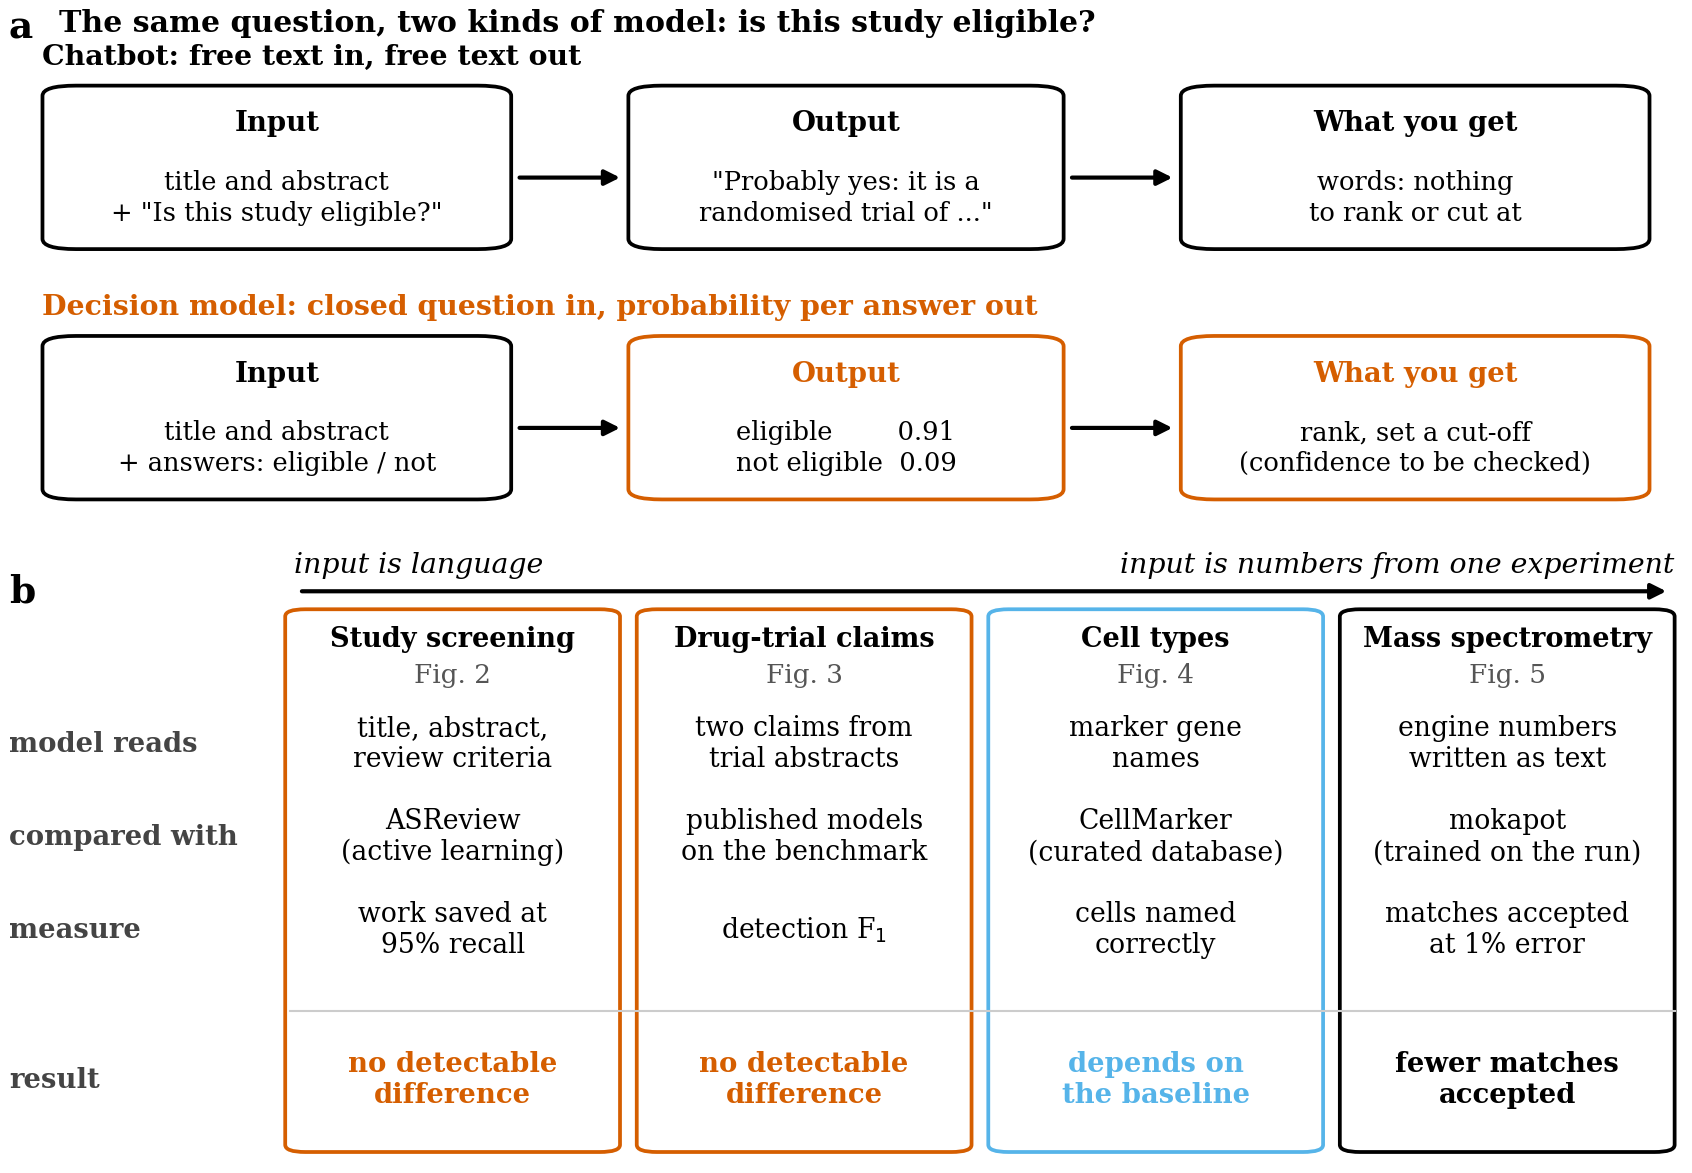
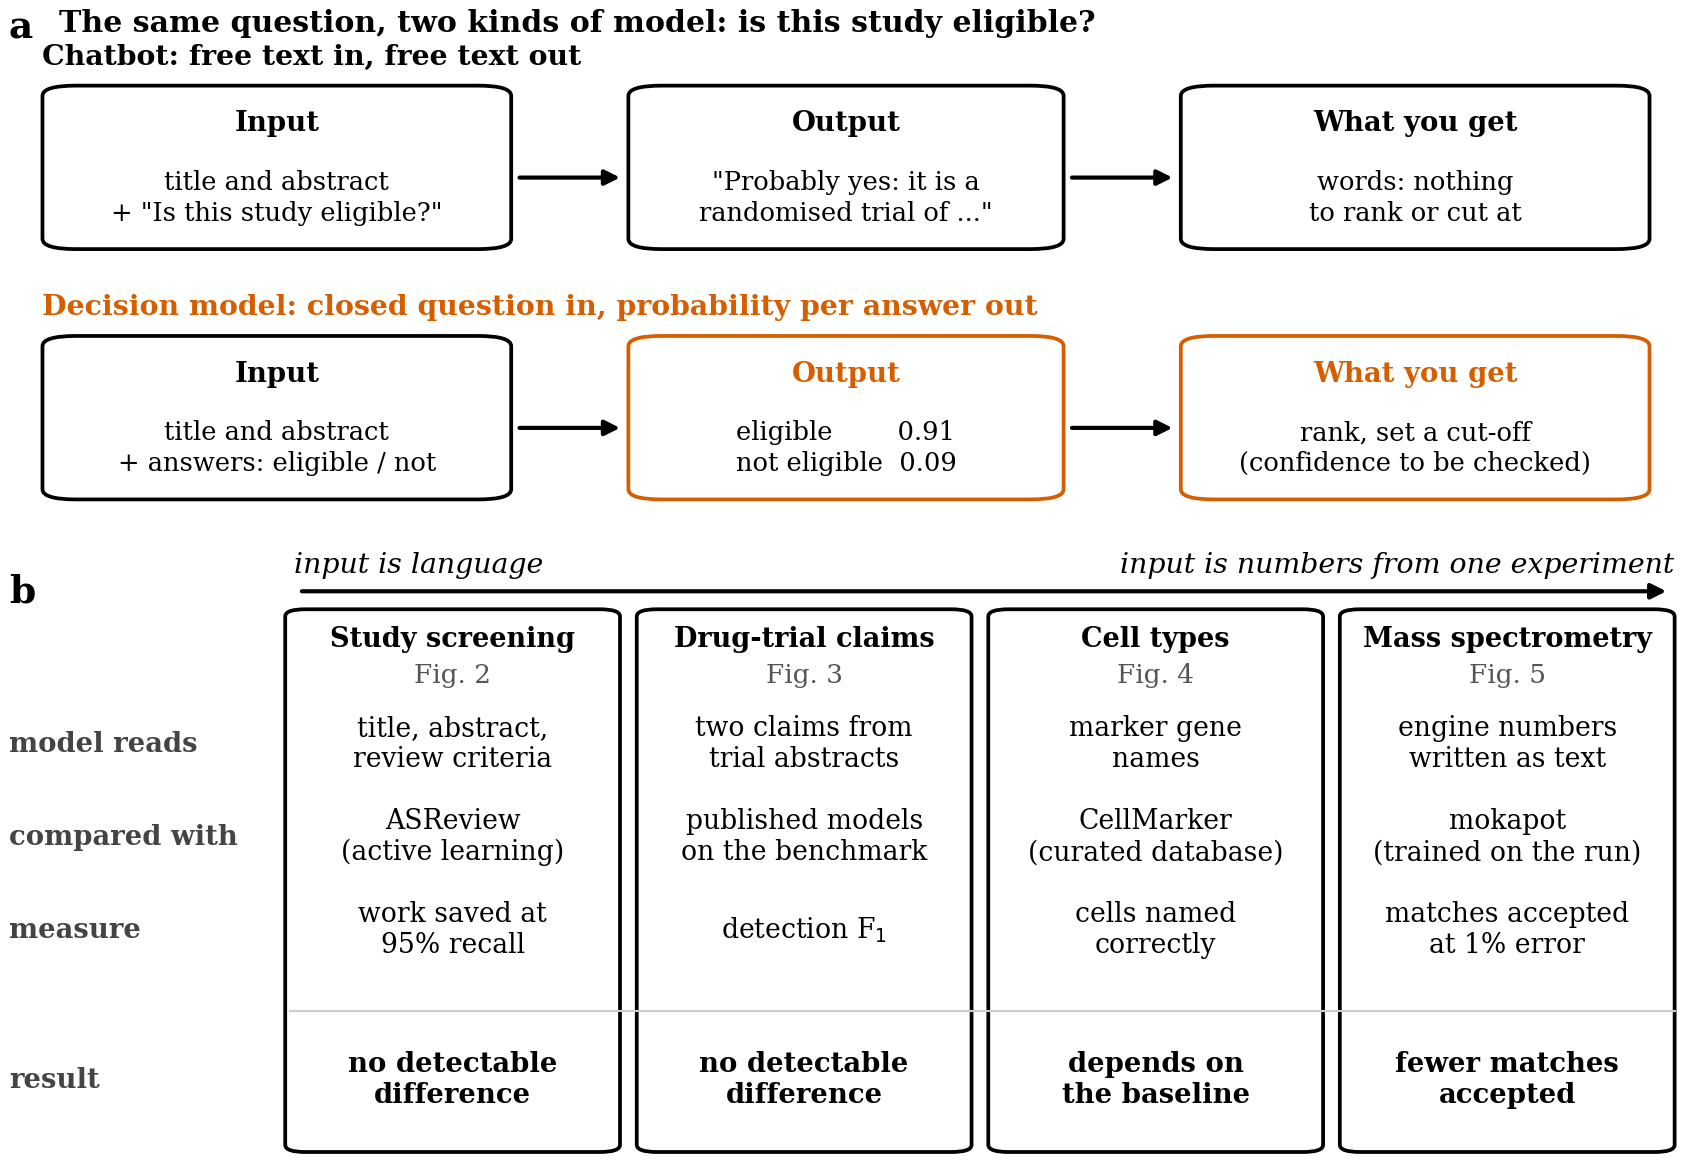
Fig 1: panel b in neutral colour

diff --git a/scripts/fig1_gradient.py b/scripts/fig1_gradient.py
@@ -1,18 +1,18 @@
 """Fig 1, Introduction: the benchmark map, four tasks on one text-to-numbers axis. No inputs (values restate the source studies; sizes asserted in fig2-fig5).
 Out: figs/fig1_gradient.{pdf,png}. Run from merge_jev/paper/: python3 scripts/fig1_gradient.py"""
 from matplotlib.patches import FancyBboxPatch
-from style import save, plt, JEV, POSTHOC, REF, WIDTH
+from style import save, plt, JEV, REF, WIDTH
 
 # rows of each card; values restate the source studies (sizes asserted in the per-case scripts)
 ROWS = ["model reads", "compared with", "measure"]
 CASES = [
-    ("Study screening", "Fig. 2", JEV, "no detectable\ndifference",
+    ("Study screening", "Fig. 2", "no detectable\ndifference",
      ["title, abstract,\nreview criteria", "ASReview\n(active learning)", "work saved at\n95% recall"]),
-    ("Drug-trial claims", "Fig. 3", JEV, "no detectable\ndifference",
+    ("Drug-trial claims", "Fig. 3", "no detectable\ndifference",
      ["two claims from\ntrial abstracts", "published models\non the benchmark", "detection F$_1$"]),
-    ("Cell types", "Fig. 4", POSTHOC, "depends on\nthe baseline",
+    ("Cell types", "Fig. 4", "depends on\nthe baseline",
      ["marker gene\nnames", "CellMarker\n(curated database)", "cells named\ncorrectly"]),
-    ("Mass spectrometry", "Fig. 5", REF, "fewer matches\naccepted",
+    ("Mass spectrometry", "Fig. 5", "fewer matches\naccepted",
      ["engine numbers\nwritten as text", "mokapot\n(trained on the run)", "matches accepted\nat 1% error"]),
 ]
 f, (b, a) = plt.subplots(2, 1, figsize=(WIDTH, 5.0), gridspec_kw=dict(height_ratios=[2.3, 2.7], hspace=.08))
@@ -50,15 +50,15 @@ a.text(.995, .975, "input is numbers from one experiment", ha="right", va="botto
 y0, dy = .70, .155
 for j, r in enumerate(ROWS):
     a.text(.0, y0 - j * dy, r, ha="left", va="center", fontsize=6.6, color="#444444", weight="bold")
-for i, (t, fig, col, verdict, vals) in enumerate(CASES):
+for i, (t, fig, verdict, vals) in enumerate(CASES):  # no colour here: orange means decision model in every figure
     xc = .265 + i * .21
     a.add_patch(FancyBboxPatch((xc - .1, .02), .2, .905, boxstyle="round,pad=0,rounding_size=.012",
-                               fc="none", ec=col, lw=.9, transform=a.transAxes))
+                               fc="none", ec=REF, lw=.9, transform=a.transAxes))
     a.text(xc, .875, f"{t}", ha="center", va="center", fontsize=6.5, weight="bold")
     a.text(xc, .815, fig, ha="center", va="center", fontsize=6.3, color="#555555")
     for j, v in enumerate(vals):
         a.text(xc, y0 - j * dy, v, ha="center", va="center", fontsize=6.4)
-    a.text(xc, .14, verdict, ha="center", va="center", fontsize=6.6, color=col, weight="bold")
+    a.text(xc, .14, verdict, ha="center", va="center", fontsize=6.6, weight="bold")
 a.text(.0, .14, "result", ha="left", va="center", fontsize=6.6, color="#444444", weight="bold")
 a.plot([.168, .995], [.255, .255], color="#cccccc", lw=.5)
 save(f, "fig1_gradient")

diff --git a/paper.tex b/paper.tex
@@ -28,7 +28,7 @@ Much of biomedical research rests on small, repeated decisions with a fixed set 
 \end{@twocolumnfalse}]
 \begin{figure*}[t]\centering
 \includegraphics[width=\textwidth]{figs/fig1_gradient.pdf}
-\caption{\textbf{What a decision model is, and the four tests.} \textbf{a}, The same question put to a chatbot and to a decision model: the chatbot answers in free text, the decision model returns a probability for each allowed answer (the example is the screening question; the probabilities shown are illustrative). \textbf{b}, Four tests of Jev~1.13 and d3-ultra, ordered from text input to numeric input. Each column is one test, shown in full in the figure named under its title; rows give what the models read, what they are compared with and the primary measure. The bottom line is Jev's result, and the box colour groups the tests by that result. Toward the right the input is numbers from one experiment and the comparator is trained on that experiment.}
+\caption{\textbf{What a decision model is, and the four tests.} \textbf{a}, The same question put to a chatbot and to a decision model: the chatbot answers in free text, the decision model (orange) returns a probability for each allowed answer (the example is the screening question; the probabilities shown are illustrative). \textbf{b}, Four tests of Jev~1.13 and d3-ultra, ordered from text input to numeric input. Each column is one test, shown in full in the figure named under its title; rows give what the models read, what they are compared with and the primary measure. The bottom line is Jev's result. Toward the right the input is numbers from one experiment and the comparator is trained on that experiment.}
 \label{fig:gradient}
 \end{figure*}
 
